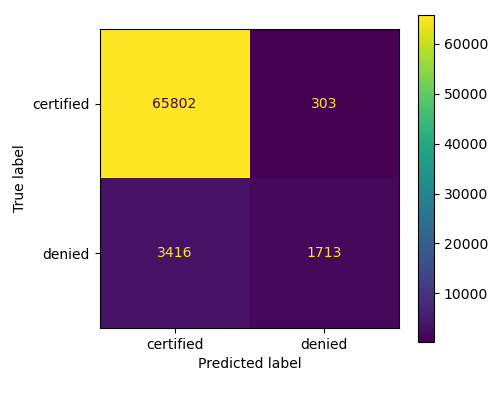
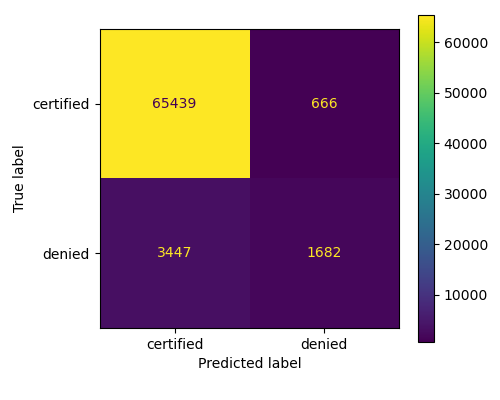
added for_tabpfn parameter to loader

diff --git a/data/loaders.py b/data/loaders.py
@@ -2,7 +2,7 @@ import pandas as pd
 from .cleaning import clean_text_columns, replace_by_dictionary, prepare_for_tabpfn, keep_only_columns
 import data.constants as constants
 
-def load_us_perm_visas(as_frame=False):
+def load_us_perm_visas(as_frame=False, for_tabpfn=False):
   data = pd.read_csv('./data/raw/us_perm_visas.csv', low_memory=False)
 
   columns_to_keep = ["case_status","decision_date","employer_name","employer_city",
@@ -39,8 +39,9 @@ def load_us_perm_visas(as_frame=False):
   data[datetime_columns] = data[datetime_columns].apply(pd.to_datetime)
   data[categorical_columns] = data[categorical_columns].astype('category') 
 
-  # Handle missing values
-  # data = prepare_for_tabpfn(data)
+  # BAD! This preprocessing should be part of pipeline
+  if for_tabpfn:
+      data = prepare_for_tabpfn(data)
 
   if as_frame:
       return data
